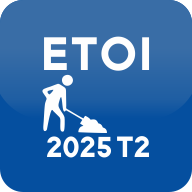
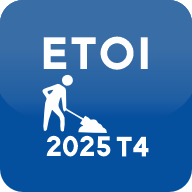
iconos Etoi254 y actualización grilla con Alexis.

diff --git a/encuestas/grilla_i1_trabajo_ocupados_covid.php b/encuestas/grilla_i1_trabajo_ocupados_covid.php
@@ -14,8 +14,10 @@ class Grilla_i1_trabajo_ocupados_covid extends Grilla_respuestas_para_proc_ind{
            (select pla_enc as t_enc, pla_participacion  from plana_tem_) t
         "]="pla_enc=t_enc";
         $this->tabla->campos_lookup['pla_participacion']=false;
-        $vsent=" or pla_t35=1 or pla_t35=2 )" ;      
-        $this->tabla->clausula_where_agregada_manual="{$GLOBALS['NOMBRE_APP']}"=='eah2025' ?"  and ( pla_t30_1>=1  ".$vsent:"  and (pla_t30>=1  ".$vsent ; 
+        $vsent=" or pla_t35=1 or pla_t35=2 )" ; 
+        $vcondicion= "{$GLOBALS['NOMBRE_APP']}"."=='eah2025' " . " or substr({$GLOBALS['NOMBRE_APP']},0,4)=='etoi' && (int)(substr({$GLOBALS['NOMBRE_APP']},4))>252";
+        $this->tabla->clausula_where_agregada_manual= $vcondicion ?"  and ( pla_t30_1>=1  ".$vsent:"  and (pla_t30>=1  ".$vsent ; 
+       
     }
 //"  and (  pla_t35=1 or pla_t35=2 or  ".
     function campos_solo_lectura(){
@@ -44,10 +46,10 @@ class Grilla_i1_trabajo_ocupados_covid extends Grilla_respuestas_para_proc_ind{
             ,'pla_t45'
             ,'pla_t47'
             ,'pla_t51'
+            ,'pla_t37'
             ,'pla_t37sd'
             ,'pla_tsd7'
             ,'pla_t40bis_a'
-            ,'pla_t39'
             ,'pla_tu3'
             ,'pla_tu4'
             ,'pla_tu5'
@@ -71,8 +73,16 @@ class Grilla_i1_trabajo_ocupados_covid extends Grilla_respuestas_para_proc_ind{
             ,'pla_ts3'
             ,'pla_ta1'
             ,'pla_ta4'
-            ,'pla_i4'
-            ,'pla_i7a'
+            ,'pla_tu16_a'
+            ,'pla_tu16_b'
+            ,'pla_tu16_c'
+            ,'pla_tu16_d' 
+            ,'pla_tu16_e'
+            ,'pla_tu17_a'
+            ,'pla_tu17_b'
+            ,'pla_tu17_c'
+            ,'pla_tu17_d'
+            ,'pla_tu17_e'
             ,'pla_i7_bis'
             ,'pla_i8'
             ,'pla_i9'
@@ -82,6 +92,7 @@ class Grilla_i1_trabajo_ocupados_covid extends Grilla_respuestas_para_proc_ind{
             ,'pla_tso48a'
             ,'pla_tso48b'
             ,'pla_tso51'
+            ,'pla_cptso37'
             ,'pla_tso41'
             ,'pla_t37sdo'
             ,'pla_tso39'
@@ -105,9 +116,9 @@ class Grilla_i1_trabajo_ocupados_covid extends Grilla_respuestas_para_proc_ind{
         if(tiene_rol('procesamiento')){
            $editables[]='pla_t41'; 
            $editables[]='pla_t39_barrio';
-           $editables[]='pla_t39_partido'; 
-           $editables[]='pla_t39_otro'; 
-           $editables[]='pla_t40bis_a1_otro'; 
+           $editables[]='pla_t39_partido';
+           $editables[]='pla_t39_otro';
+           $editables[]='pla_t40bis_a1_otro';
            $editables[]='pla_t40bis_a2_otro'; 
            $editables[]='pla_t40bis_b_barrio'; 
            $editables[]='pla_t40bis_b_partido'; 
@@ -129,13 +140,13 @@ class Grilla_i1_trabajo_ocupados_covid extends Grilla_respuestas_para_proc_ind{
     }  
    
     function campos_a_listar($filtro_para_lectura){
-        $array2=(!in_array("{$GLOBALS['NOMBRE_APP']}",['eah2024','etoi244','etoi251']))? array('pla_t39','pla_t39_barrio','pla_t39_partido','pla_t39_otro'):array('pla_t39');
+        $array2=(!in_array("{$GLOBALS['NOMBRE_APP']}",['eah2024','etoi244','etoi251','etoi252','eah2025']))? array('pla_t39','pla_t39_barrio','pla_t39_partido','pla_t39_otro'):array('pla_t39');
         return array_merge(array('s1_p_semana','pla_enc', 'pla_hog','pla_mie',
                                 /*'pla_participacion',*/'s1_p_bolsa','s1_p_estado',
                                 /*'s1_p_area',*/'s1_p_cod_anacon',
                                 's1_p_sexo','s1_p_edad',),
                 $this->filtrar_campos_del_operativo(array_merge( array('s1_r0',
-                    'pla_t28', 'pla_t30', 'pla_t30_1', 'pla_t35_0','pla_t44','pla_t45','pla_t47','pla_t51','pla_t41','pla_t37sd', 'pla_tsd3_0','pla_tsd7','pla_t40bis_a'),
+                    'pla_t28', 'pla_t30', 'pla_t30_1', 'pla_t35_0','pla_t44','pla_t45','pla_t47','pla_t51','pla_t37','pla_t41','pla_t37sd', 'pla_tsd3_0','pla_tsd7','pla_t40bis_a'),
                     $array2,
                     array('pla_tu3','pla_tu3a', 'pla_tu4','pla_tu5','pla_tu6','pla_tu7','pla_tu8','pla_tu8a','pla_tu9',
                     'pla_t40bis_a1','pla_t40bis_a1_otro',
@@ -143,12 +154,14 @@ class Grilla_i1_trabajo_ocupados_covid extends Grilla_respuestas_para_proc_ind{
                     'pla_t40bis_b','pla_t40bis_b_barrio','pla_t40bis_b_partido','pla_t40bis_b_otro','pla_t40bis_d',
                     'pla_t40bis_f','pla_t40bis_g6','pla_t40bis_g6_otro',
                     'pla_t40bis_a3_1','pla_t40bis_a3_2','pla_t40bis_a3_3','pla_t40bis_a3_5','pla_t40bis_a3_4','pla_t40bis_a3_4_esp',
-                    'pla_ts1','pla_ts2','pla_ts3','pla_ta1','pla_ta4','pla_ta4_esp',
-                    'pla_i4','pla_i7a','pla_i7_bis','pla_i8','pla_i9',
-                    'pla_tso44','pla_tso45','pla_tso47','pla_tso48a','pla_tso48b','pla_tso48b_esp','pla_tso51','pla_tso41',
+                    'pla_ts1','pla_ts2','pla_ts3','pla_ta1','pla_ta4','pla_ta4_esp','pla_tu16_a', 'pla_tu16_b','pla_tu16_c','pla_tu16_d' ,'pla_tu16_e','pla_tu17_a','pla_tu17_b','pla_tu17_c','pla_tu17_d','pla_tu17_e',
+                    'pla_i7_bis','pla_i8','pla_i9',
+                    'pla_tso44','pla_tso45','pla_tso47','pla_tso48a','pla_tso48b','pla_tso48b_esp','pla_tso51','pla_cptso37',
+                    'pla_tso41',
                     'pla_t37sdo','pla_tso39','pla_tso39_barrio','pla_tso39_partido','pla_tso39_otro','pla_tuso3',
                     'pla_tuso3a','pla_tuso4','pla_tuso5','pla_tuso6','pla_tuso7','pla_tuso8','pla_tuso8a','pla_tuso9',
                     'pla_obs','pla_obs_grilla_ti_co1'
+                    
                    )
                   )                   
                 ));
